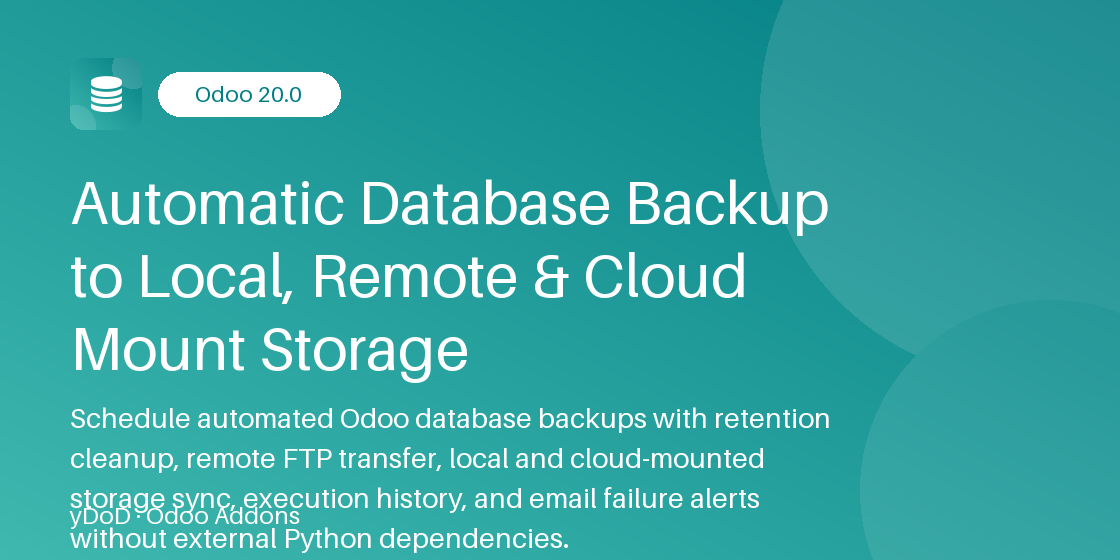
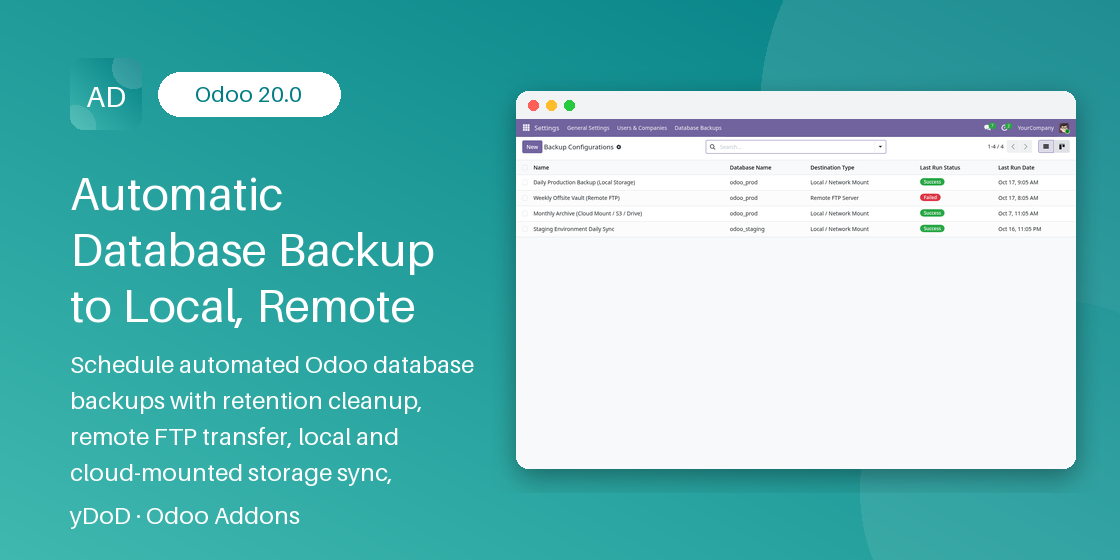
Store visuals: animated demo as the Odoo Apps cover

diff --git a/ydod_database_backup_manager/static/description/index.html b/ydod_database_backup_manager/static/description/index.html
@@ -25,6 +25,44 @@
             </div>
         </div>
     </section>
+<!-- oaa:showcase:start -->
+<section style="padding:56px 16px;background:linear-gradient(180deg,#017E8414 0%,#ffffff 70%)">
+  <div style="max-width:1100px;margin:0 auto;text-align:center">
+    <span style="display:inline-block;padding:6px 16px;border-radius:999px;background:#017E84;color:#fff;font-weight:700;font-size:13px;letter-spacing:.08em">SEE IT IN ACTION</span>
+    <h2 style="font-size:32px;font-weight:800;color:#1f2937;margin:16px 0 28px">Automatic Database Backup to Local, Remote &amp; Cloud Mount Storage at work</h2>
+    <div style="max-width:1000px;margin:0 auto;border-radius:20px;overflow:hidden;box-shadow:0 22px 60px rgba(15,23,42,.22)">
+      <img src="demo.gif" alt="Automatic Database Backup to Local, Remote &amp; Cloud Mount Storage animated demo" style="width:100%;display:block"/>
+    </div>
+    <div class="row" style="margin-top:32px">
+      <div class="col-12" style="padding:12px">
+        <div style="height:100%;background:#fff;border:1px solid #eef0f4;border-radius:16px;overflow:hidden;box-shadow:0 10px 30px rgba(15,23,42,.10)">
+          <img src="screenshot_1.png" alt="Backup Configurations" style="width:100%;display:block"/>
+          <div style="padding:14px 18px;font-size:15px;color:#334155;text-align:left"><span style="display:inline-block;width:26px;height:26px;line-height:26px;border-radius:13px;background:#017E84;color:#fff;text-align:center;font-weight:700;font-size:13px;margin-right:10px">1</span>Backup Configurations</div>
+        </div>
+      </div>
+      <div class="col-md-6" style="padding:12px">
+        <div style="height:100%;background:#fff;border:1px solid #eef0f4;border-radius:16px;overflow:hidden;box-shadow:0 10px 30px rgba(15,23,42,.10)">
+          <img src="screenshot_2.png" alt="Backup Configurations · detail" style="width:100%;display:block"/>
+          <div style="padding:14px 18px;font-size:15px;color:#334155;text-align:left"><span style="display:inline-block;width:26px;height:26px;line-height:26px;border-radius:13px;background:#017E84;color:#fff;text-align:center;font-weight:700;font-size:13px;margin-right:10px">2</span>Backup Configurations · detail</div>
+        </div>
+      </div>
+      <div class="col-md-6" style="padding:12px">
+        <div style="height:100%;background:#fff;border:1px solid #eef0f4;border-radius:16px;overflow:hidden;box-shadow:0 10px 30px rgba(15,23,42,.10)">
+          <img src="screenshot_3.png" alt="Execution Logs" style="width:100%;display:block"/>
+          <div style="padding:14px 18px;font-size:15px;color:#334155;text-align:left"><span style="display:inline-block;width:26px;height:26px;line-height:26px;border-radius:13px;background:#017E84;color:#fff;text-align:center;font-weight:700;font-size:13px;margin-right:10px">3</span>Execution Logs</div>
+        </div>
+      </div>
+      <div class="col-md-6" style="padding:12px">
+        <div style="height:100%;background:#fff;border:1px solid #eef0f4;border-radius:16px;overflow:hidden;box-shadow:0 10px 30px rgba(15,23,42,.10)">
+          <img src="screenshot_4.png" alt="Execution Logs · detail" style="width:100%;display:block"/>
+          <div style="padding:14px 18px;font-size:15px;color:#334155;text-align:left"><span style="display:inline-block;width:26px;height:26px;line-height:26px;border-radius:13px;background:#017E84;color:#fff;text-align:center;font-weight:700;font-size:13px;margin-right:10px">4</span>Execution Logs · detail</div>
+        </div>
+      </div>
+    </div>
+  </div>
+</section>
+<!-- oaa:showcase:end -->
+
 
     <!-- SECTION 2: KEY FEATURES -->
     <section class="py-4">

diff --git a/ydod_database_backup_manager/__manifest__.py b/ydod_database_backup_manager/__manifest__.py
@@ -51,7 +51,12 @@
         'views/backup_config_views.xml',
         'views/backup_menus.xml'],
     'demo': ['demo/backup_demo.xml'],
-    'images': ['static/description/banner.png'],
+    'images': [   'static/description/demo.gif',
+        'static/description/banner.png',
+        'static/description/screenshot_1.png',
+        'static/description/screenshot_2.png',
+        'static/description/screenshot_3.png',
+        'static/description/screenshot_4.png'],
     'installable': True,
     'application': True,
 }
